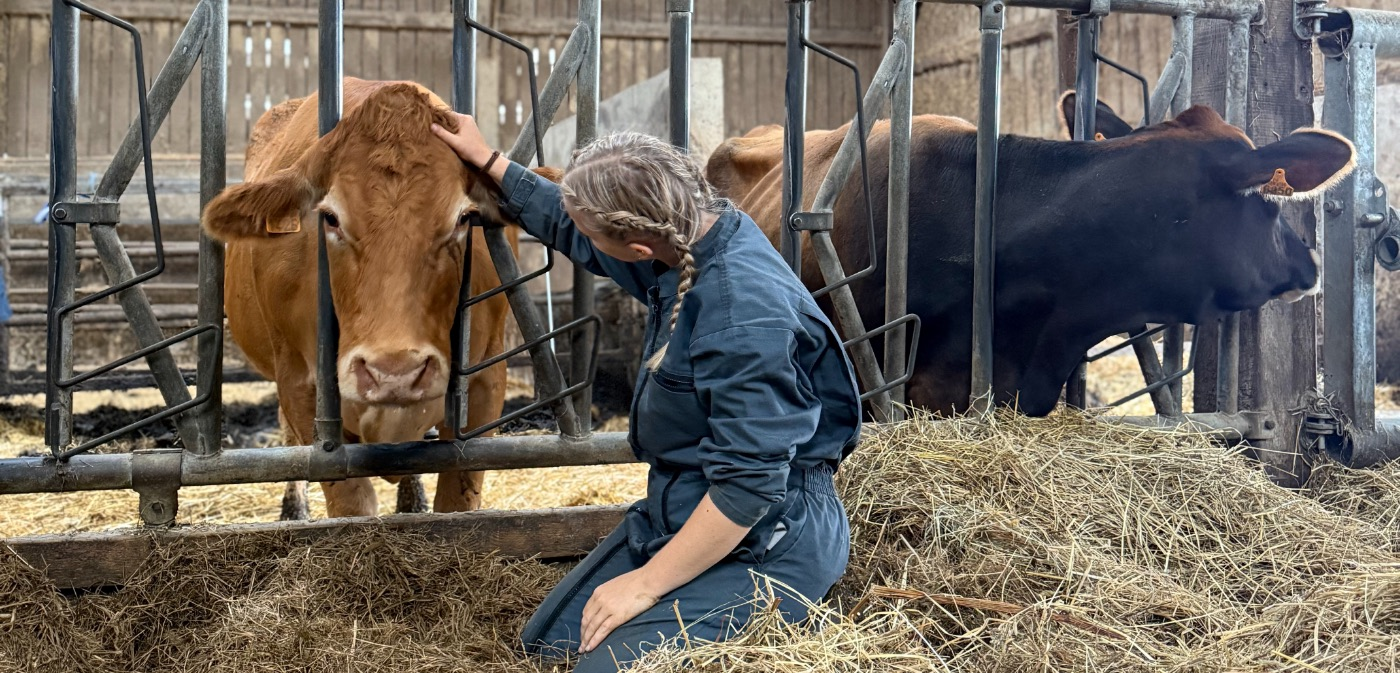
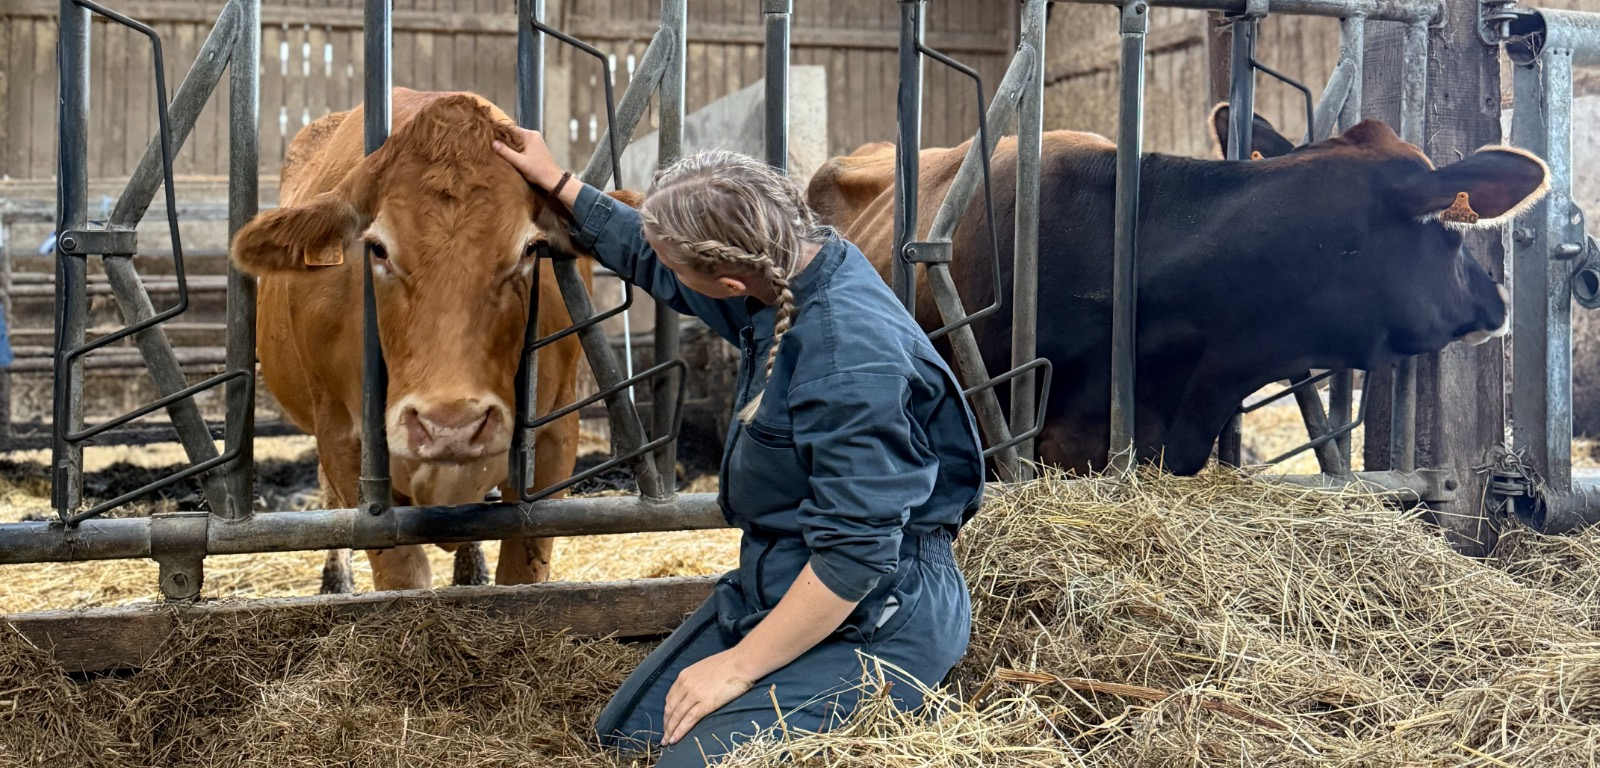
Enlarge the palpation photo and rebuild the gallery as a masonry
The process photo frame goes from 583x280 to 791x379, +84% area, by giving
its column more of the grid (0.78fr/1.22fr) and raising .process-stage to
400px so the taller frame clears the step dots. The 25:12 aspect-ratio is
kept, so the photo grows in its own proportions and is never stretched.
Its border-radius is now set explicitly rather than inherited. The JPEG is
regenerated at 1600x768 to stay sharp at the larger size.

The gallery becomes a real masonry through column-count: each photo keeps
its natural ratio with height:auto, so nothing is cropped. It holds seven
photos instead of three, adding hero-poney.jpg, which the hero swap had
left unused, plus the cat, the about-section cow and the palpation shot.
The order is chosen by tile height so the browser's column balancing lands
evenly: the three columns now end within 25px of each other, and the whole
block is 1191px tall against 1609px before.

diff --git a/css/styles.css b/css/styles.css
@@ -918,14 +918,16 @@ textarea {
 
 .process-stage {
   position: relative;
-  min-height: 320px;
+  /* Tall enough to hold the photo frame, whose height follows its width
+     through the 25:12 ratio; otherwise it would spill over the step dots. */
+  min-height: 400px;
 }
 
 .process-step {
   position: absolute;
   inset: 0;
   display: grid;
-  grid-template-columns: 1.1fr 0.9fr;
+  grid-template-columns: 0.78fr 1.22fr;
   align-items: center;
   gap: 48px;
   text-align: left;
@@ -985,7 +987,11 @@ textarea {
   overflow: hidden;
   height: auto;
   max-height: none;
+  /* Matches the crop baked into the file, so the photo is never stretched
+     nor cropped a second time, whatever width the column ends up at. */
   aspect-ratio: 25 / 12;
+  max-width: 800px;
+  border-radius: var(--radius-lg);
   flex: 0 0 auto;
 }
 
@@ -994,6 +1000,7 @@ textarea {
   height: 100%;
   min-height: inherit;
   object-fit: cover;
+  border-radius: inherit;
   display: block;
 }
 
@@ -1147,29 +1154,24 @@ textarea {
 
 /* ---------- Gallery ---------- */
 
+/* Masonry via CSS columns: every photo keeps its own aspect ratio, so none
+   of them is cropped and the tiles stagger naturally. */
 .gallery-grid {
-  display: grid;
-  grid-template-columns: 1.1fr 0.9fr;
-  grid-template-rows: repeat(2, minmax(0, 1fr));
-  gap: 20px;
+  column-count: 3;
+  column-gap: 20px;
 }
 
 .gallery-item {
-  margin: 0;
+  margin: 0 0 20px;
   border-radius: var(--radius-md);
   overflow: hidden;
   box-shadow: var(--shadow-sm);
-  grid-row: span 1;
-}
-
-.gallery-item-tall {
-  grid-row: span 2;
+  break-inside: avoid;
 }
 
 .gallery-item img {
   width: 100%;
-  height: 100%;
-  object-fit: cover;
+  height: auto;
   display: block;
   transition: transform 0.4s ease;
 }
@@ -1667,16 +1669,7 @@ textarea {
   }
 
   .gallery-grid {
-    grid-template-columns: 1fr;
-    grid-template-rows: none;
-  }
-
-  .gallery-item-tall {
-    grid-row: auto;
-  }
-
-  .gallery-item {
-    aspect-ratio: 4 / 3;
+    column-count: 2;
   }
 
   .about-photo {
@@ -1832,6 +1825,10 @@ textarea {
   .category-block {
     padding: 0 var(--container-pad-mobile);
     margin-bottom: 56px;
+  }
+
+  .gallery-grid {
+    column-count: 1;
   }
 
   .category-hero {

diff --git a/index.html b/index.html
@@ -355,14 +355,26 @@
             <h2>Sur le terrain, auprès des animaux</h2>
           </div>
           <div class="gallery-grid">
-            <figure class="gallery-item gallery-item-tall gallery-item-dim">
+            <figure class="gallery-item gallery-item-dim">
               <img src="assets/img/gallery-alpaga.jpg" alt="Examen ostéopathique du dos d'un alpaga en présence de sa propriétaire" loading="lazy" />
+            </figure>
+            <figure class="gallery-item">
+              <img src="assets/img/gallery-chat.jpg" alt="Chat roux câliné, exemple de suivi pour chiens et chats" loading="lazy" />
             </figure>
             <figure class="gallery-item">
               <img src="assets/img/gallery-veau-biberon.jpg" alt="Alexane Thomas au contact d'un veau, moment tout en douceur" loading="lazy" />
             </figure>
             <figure class="gallery-item">
               <img src="assets/img/gallery-chevaux.jpg" alt="Chevaux au pré au moment du foin" loading="lazy" />
+            </figure>
+            <figure class="gallery-item">
+              <img src="assets/img/about-vache.jpg" alt="Alexane Thomas au contact d'une vache, moment de confiance en élevage" loading="lazy" />
+            </figure>
+            <figure class="gallery-item">
+              <img src="assets/img/hero-poney.jpg" alt="Séance d'ostéopathie sur la tête d'un poney, mains posées de part et d'autre du chanfrein" loading="lazy" />
+            </figure>
+            <figure class="gallery-item">
+              <img src="assets/img/process-palpation.jpg" alt="Alexane Thomas agenouillée dans la paille, la main posée sur la tête d'une vache limousine au cornadis" loading="lazy" />
             </figure>
           </div>
         </section>
